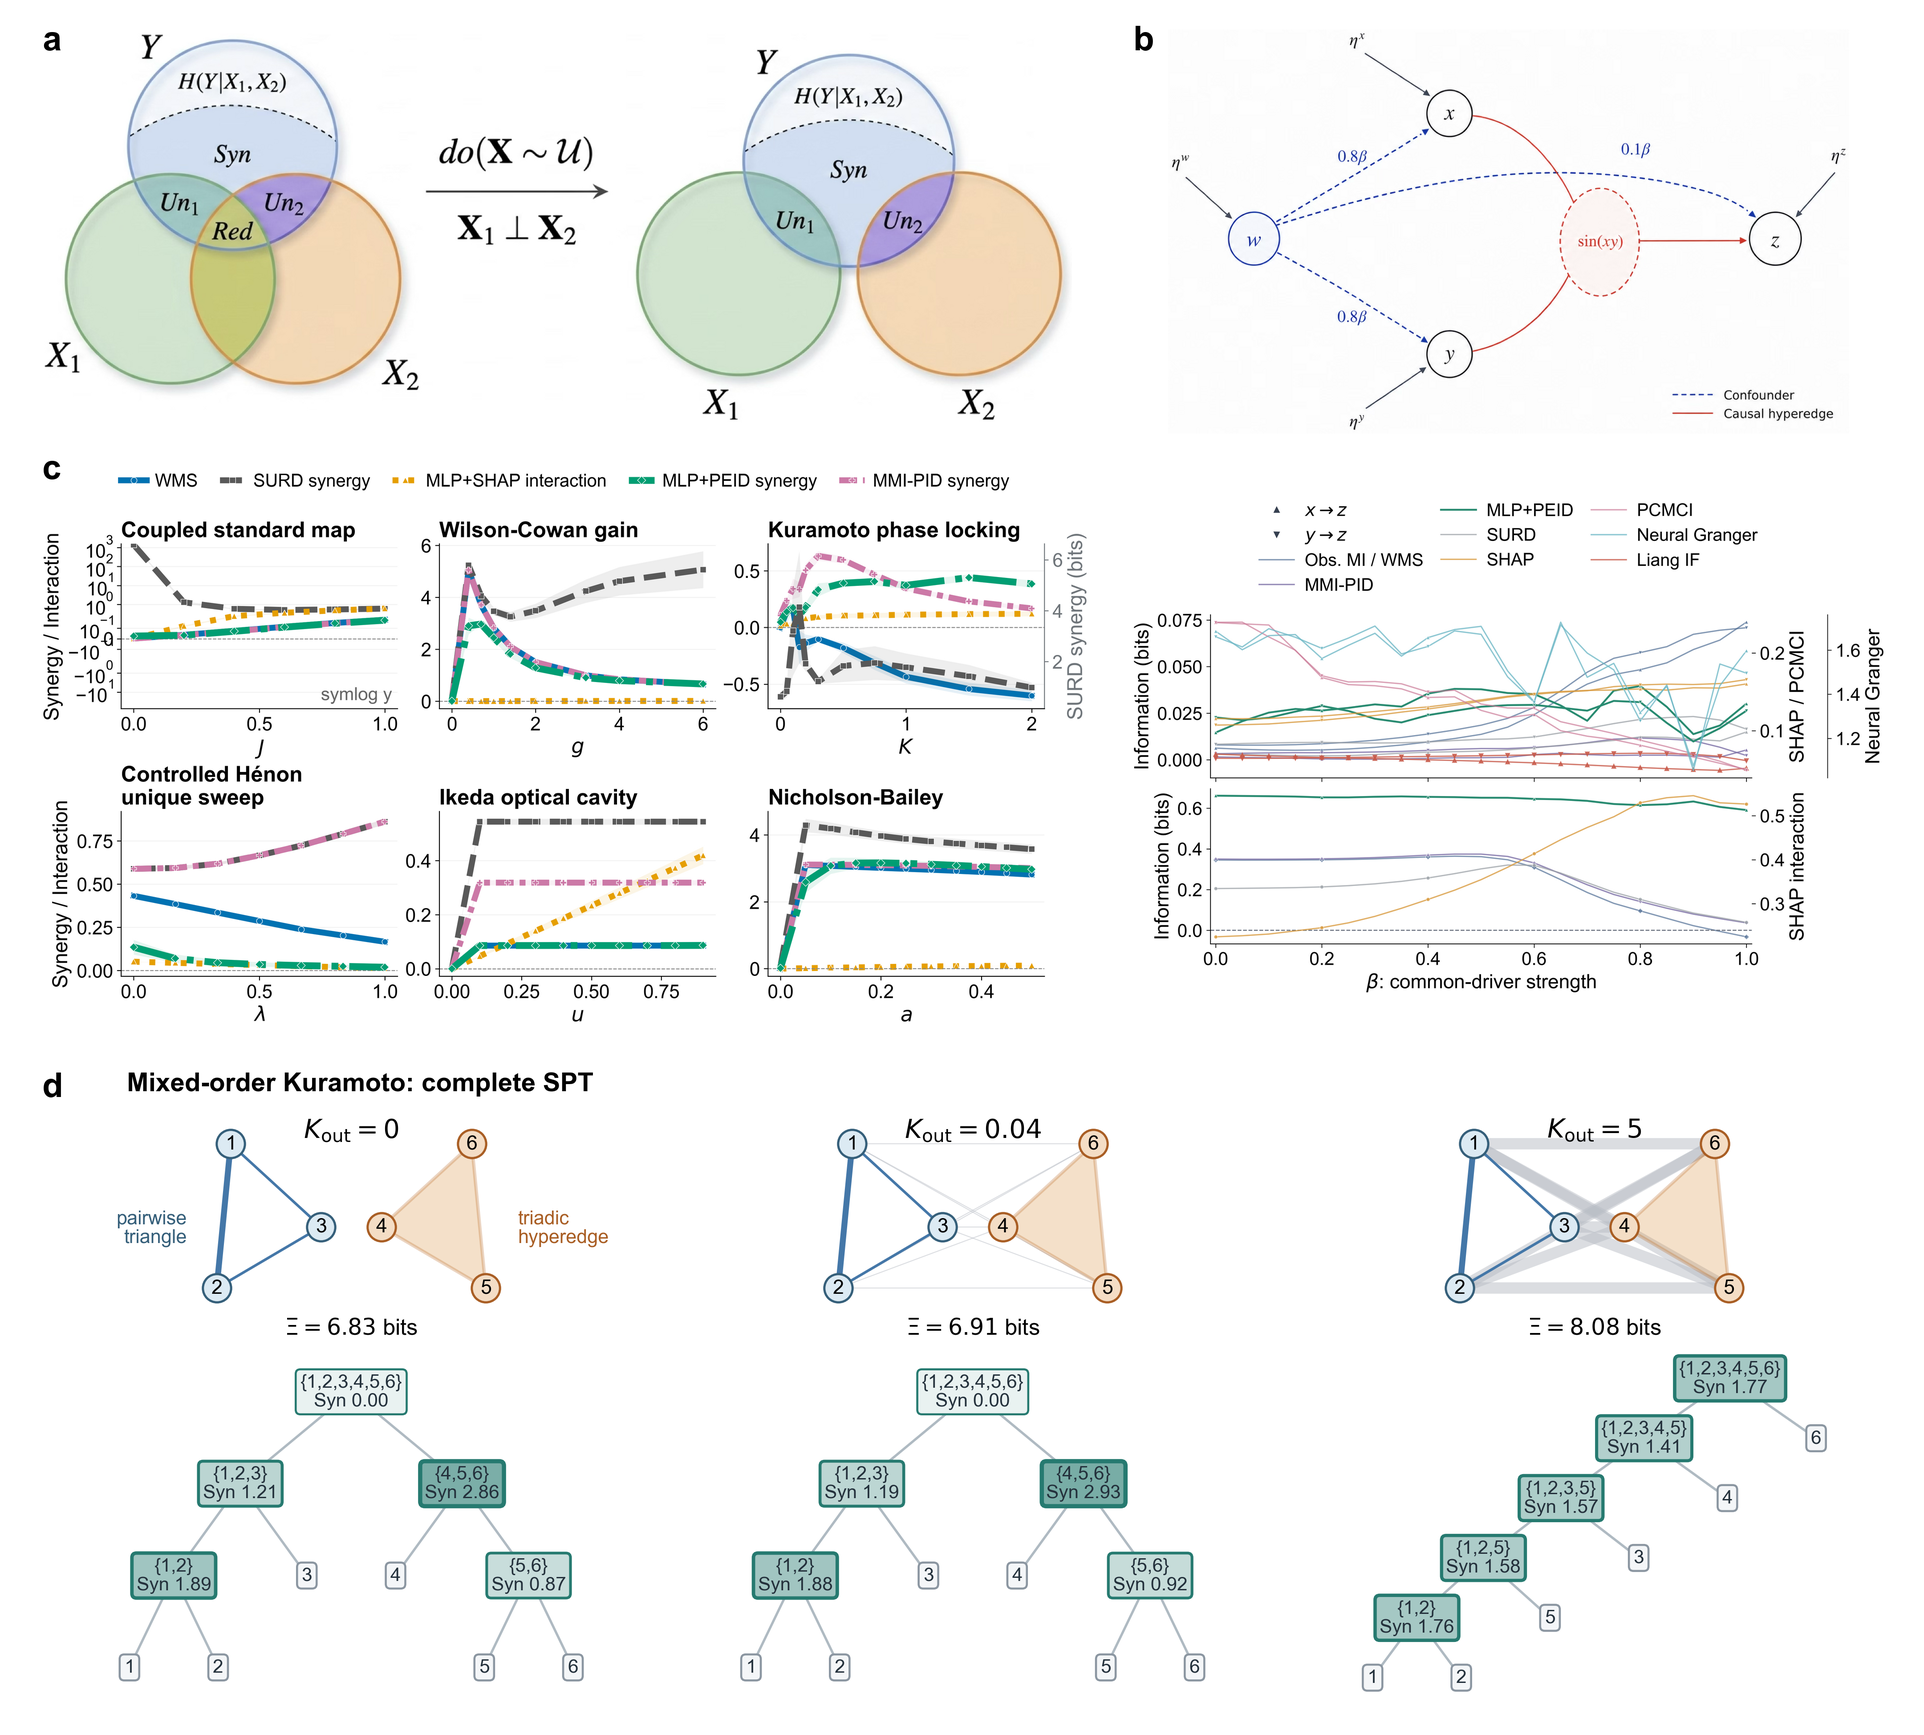
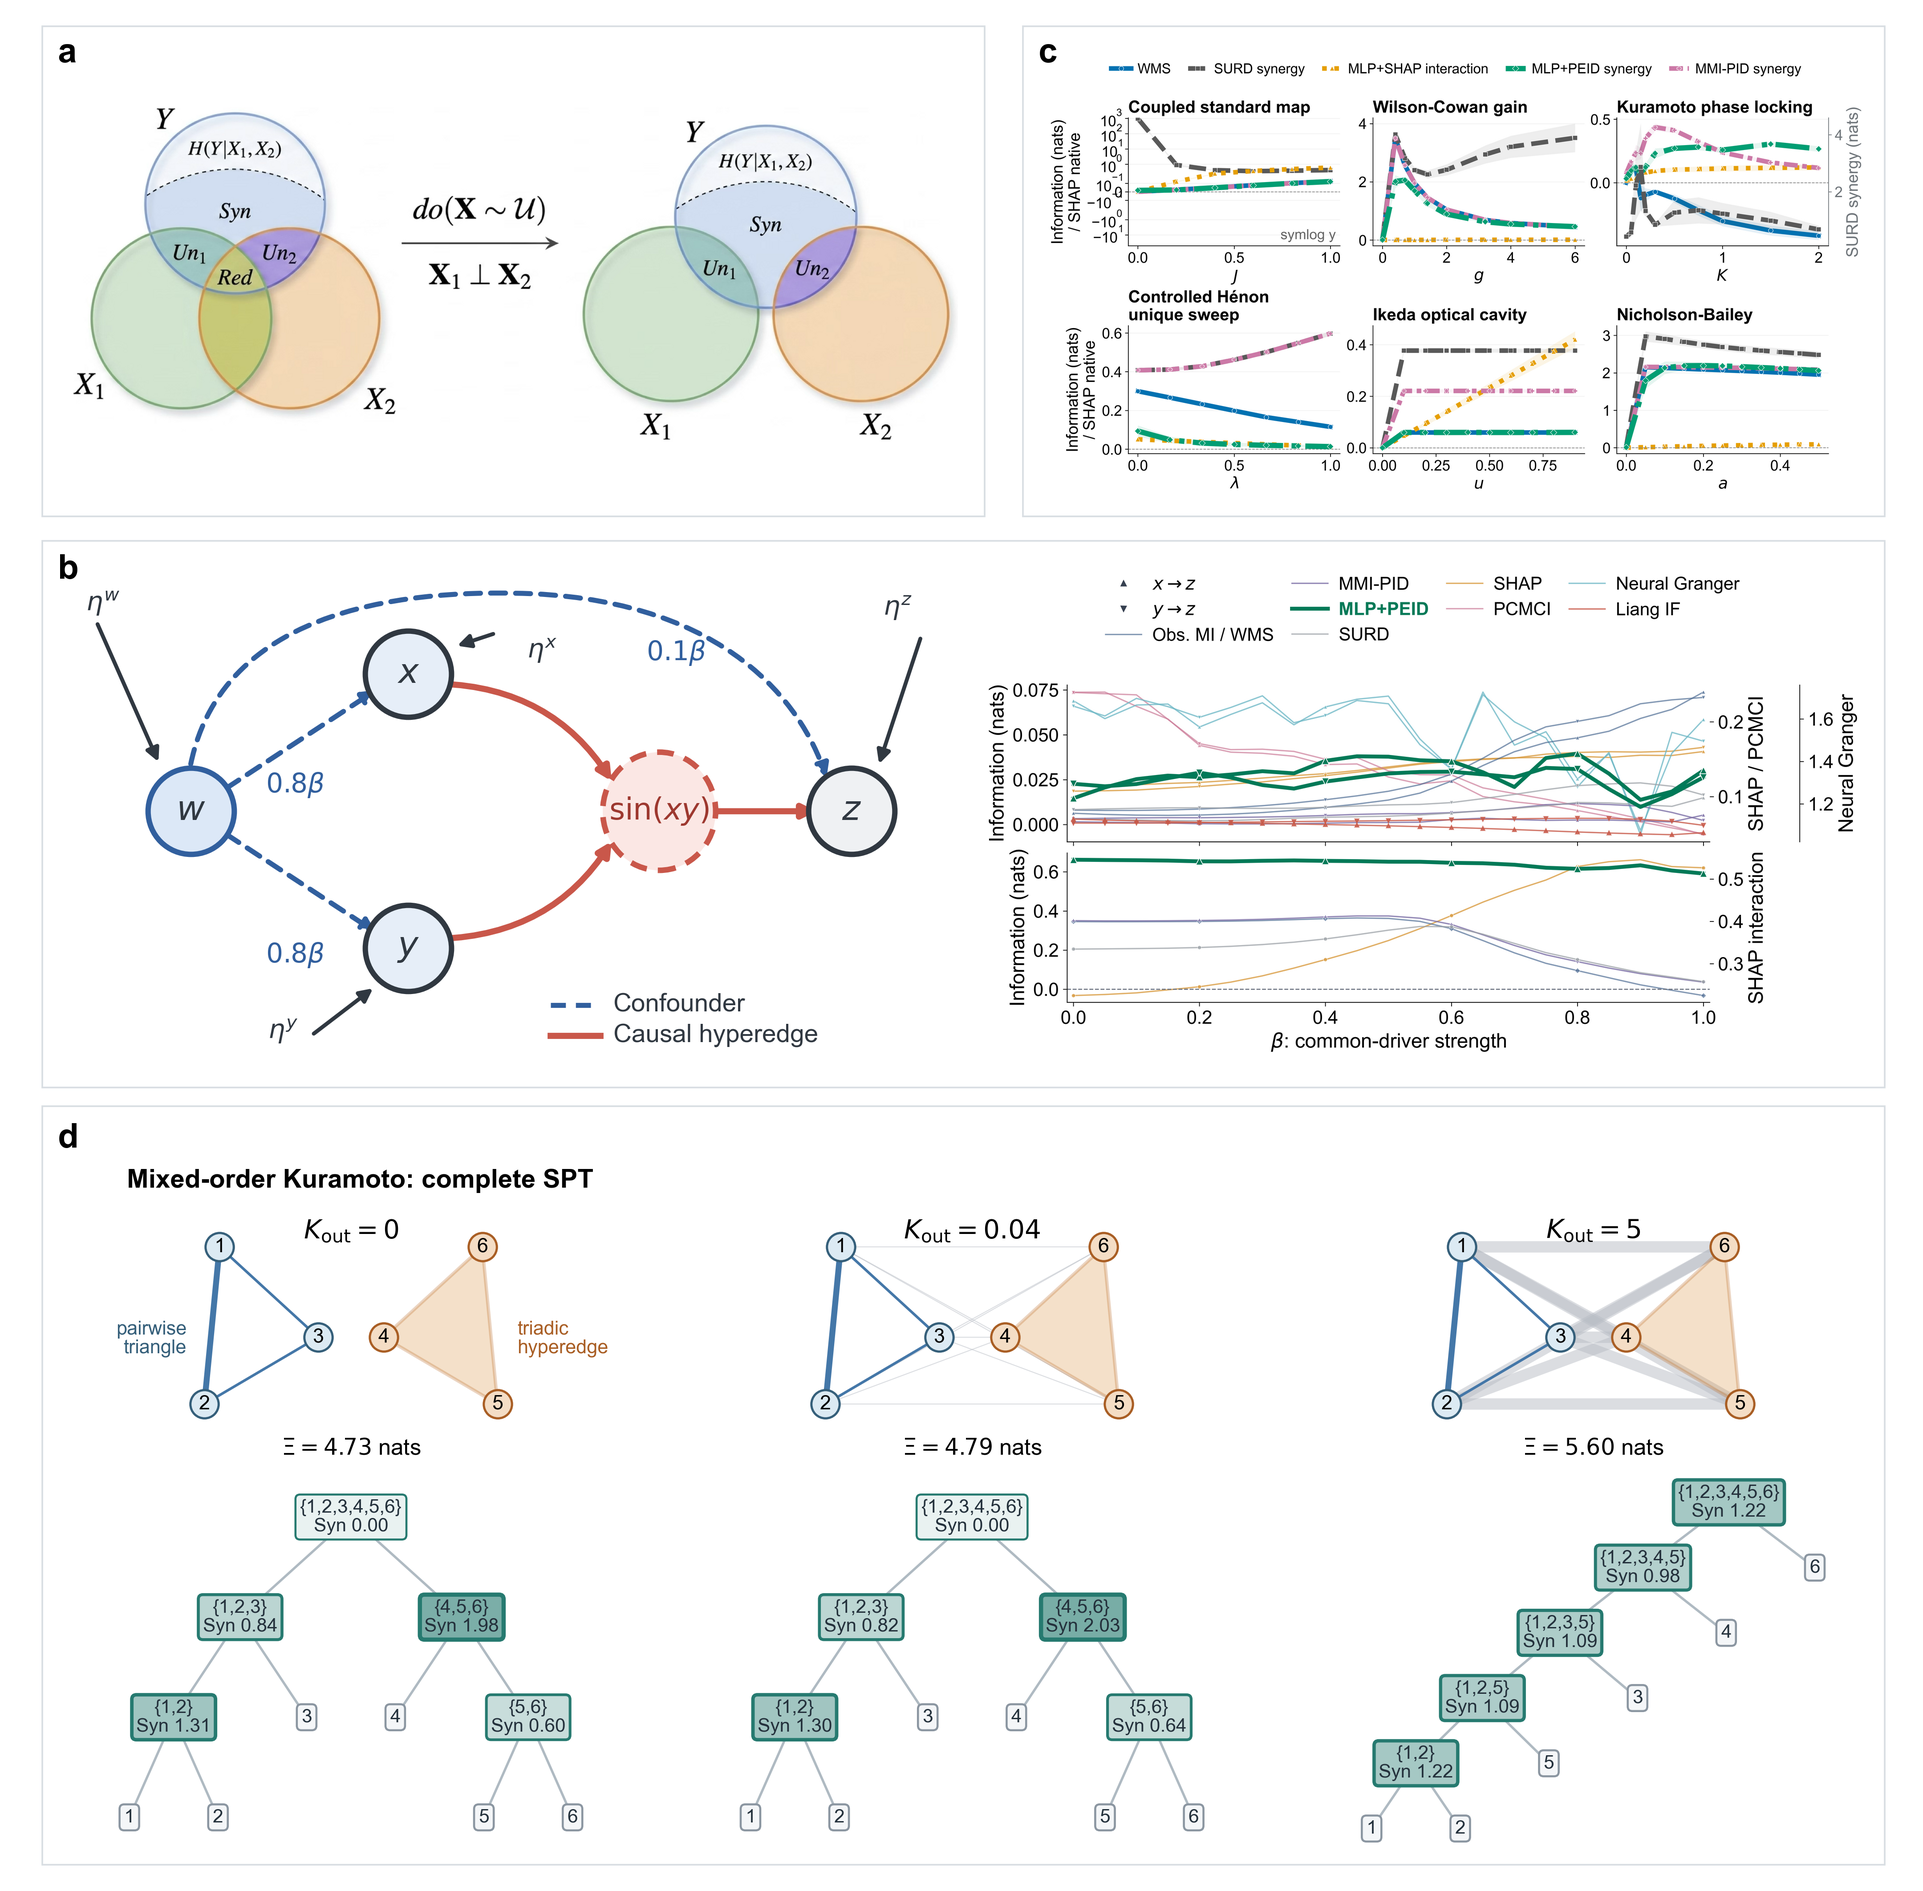
fig: 更新综合层级与动力学主图布局

diff --git a/scripts/compose_part1_figure1.py b/scripts/compose_part1_figure1.py
@@ -9,7 +9,8 @@ from pathlib import Path
 import matplotlib as mpl
 import matplotlib.pyplot as plt
 import numpy as np
-from matplotlib.patches import Polygon
+from matplotlib.path import Path as MplPath
+from matplotlib.patches import Ellipse, FancyArrowPatch, Polygon, Rectangle
 from PIL import Image, ImageChops, ImageDraw
 
 
@@ -18,7 +19,7 @@ if str(ROOT) not in sys.path:
     sys.path.insert(0, str(ROOT))
 FIGURE_DIR = ROOT / "fig" / "part1_synergy_comparison"
 SOURCE_DIR = FIGURE_DIR / "figure1_sources"
-OUTPUT_STEM = FIGURE_DIR / "figure1_integrated_hierarchy_draft"
+OUTPUT_STEM = ROOT / "paper_assets" / "figure1_integrated_hierarchy_spt_clean"
 if os.environ.get("EISYN_NATS_REVIEW_DIR"):
     OUTPUT_STEM = Path(os.environ["EISYN_NATS_REVIEW_DIR"]) / "figure1_integrated_hierarchy_spt_clean"
 NATS_PER_BIT = np.log(2.0)
@@ -33,7 +34,7 @@ CONFOUNDER_BENCHMARK = (
     / "sine_beta_original_neighborhood_one_decimal_all_methods.png"
 )
 SYSTEM_BENCHMARK_LARGE_TEXT = SOURCE_DIR / "six_system_large_text.png"
-CONFOUNDER_BENCHMARK_LARGE_TEXT = SOURCE_DIR / "confounder_large_text.png"
+CONFOUNDER_BENCHMARK_LARGE_TEXT = SOURCE_DIR / "confounder_mlp_peid_focus.png"
 CONFOUNDER_RESULT = (
     ROOT
     / "results"
@@ -144,6 +145,78 @@ def panel_letter(
     fig.text(x, y, letter, fontsize=9.2, fontweight="bold", va="top", ha="left")
 
 
+def panel_border(fig: plt.Figure, bounds: tuple[float, float, float, float]) -> None:
+    fig.add_artist(Rectangle(
+        (bounds[0], bounds[1]), bounds[2], bounds[3],
+        transform=fig.transFigure, fill=False, edgecolor="#D9DEE3", lw=0.45,
+    ))
+
+
+def draw_hyperedge_panel(fig: plt.Figure, bounds: tuple[float, float, float, float]) -> None:
+    """Redraw the existing causal schematic at the size used in the composite."""
+    ax = fig.add_axes(bounds)
+    ax.set(xlim=(0, 1), ylim=(0, 1))
+    ax.axis("off")
+    blue, red, ink = "#315F9E", "#C9574A", "#303841"
+
+    def arrow(start, end, color, *, dashed=False, rad=0, width=1.35, zorder=1):
+        ax.add_patch(FancyArrowPatch(
+            start, end, arrowstyle="-|>", mutation_scale=7.3,
+            connectionstyle=f"arc3,rad={rad}", lw=width, color=color,
+            linestyle=(0, (3, 2)) if dashed else "solid", zorder=zorder,
+        ))
+
+    w, x, y, h, z = (0.12, .50), (.38, .79), (.38, .21), (.68, .50), (.91, .50)
+    # The three dashed paths encode the original common-driver coefficients.
+    arrow((.155, .54), (.349, .765), blue, dashed=True)
+    arrow((.155, .46), (.349, .235), blue, dashed=True)
+    # Route w -> z above x; it must not pass through x or its noise arrow.
+    confounder_path = MplPath(
+        [( .12, .60), (.16, .94), (.39, .97), (.53, .96),
+         (.76, .94), (.85, .73), (.88, .57)],
+        [MplPath.MOVETO] + [MplPath.CURVE4] * 6,
+    )
+    ax.add_patch(FancyArrowPatch(
+        path=confounder_path, arrowstyle="-|>", mutation_scale=7.3,
+        lw=1.35, color=blue, linestyle=(0, (3, 2)), zorder=1,
+    ))
+    ax.text(.245, .54, r"$0.8\beta$", color=blue, fontsize=7.2, ha="center")
+    ax.text(.245, .18, r"$0.8\beta$", color=blue, fontsize=7.2, ha="center")
+    ax.text(.70, .82, r"$0.1\beta$", color=blue, fontsize=7.2, ha="center")
+
+    # The red links retain the joint x,y -> sin(xy) -> z hyperedge semantics.
+    arrow((.410, .77), (.628, .55), red, rad=-.28, width=1.65)
+    arrow((.410, .23), (.628, .45), red, rad=.28, width=1.65)
+    arrow((.742, .50), (.877, .50), red, width=1.65)
+    for start, end in [((.49, .88), (.43, .845)), ((.26, .02), (.345, .135)),
+                       ((.995, .88), (.94, .585)), ((.005, .91), (.085, .59))]:
+        arrow(start, end, ink, width=1.05, zorder=4)
+
+    for point, label, face, edge in [
+        (w, r"$w$", "#DCE8F7", blue),
+        (x, r"$x$", "#E6EEF8", ink),
+        (y, r"$y$", "#E6EEF8", ink),
+        (z, r"$z$", "#EFF1F3", ink),
+    ]:
+        ax.scatter(*point, s=540, marker="o", facecolor=face, edgecolor=edge,
+                   linewidth=1.45, transform=ax.transAxes, zorder=3)
+        ax.text(*point, label, ha="center", va="center", fontsize=9.3,
+                weight="bold", color=ink, transform=ax.transAxes, zorder=4)
+    ax.add_patch(Ellipse(h, .135, .25, transform=ax.transAxes,
+                         facecolor="#FBE7E4", edgecolor=red, lw=1.5,
+                         linestyle=(0, (3, 2)), zorder=3))
+    ax.text(*h, r"$\sin(xy)$", ha="center", va="center", color="#9D382F",
+            fontsize=8.1, weight="bold", transform=ax.transAxes, zorder=4)
+    for px, py, label in [(.54, .84, r"$\eta^x$"), (.23, .035, r"$\eta^y$"),
+                          (.965, .93, r"$\eta^z$"), (.015, .94, r"$\eta^w$")]:
+        ax.text(px, py, label, fontsize=7.1, color=ink, ha="center", va="center",
+                transform=ax.transAxes)
+    ax.plot([.55, .61], [.09, .09], color=blue, lw=1.35, ls=(0, (3, 2)))
+    ax.text(.625, .09, "Confounder", fontsize=6.8, va="center", color=ink)
+    ax.plot([.55, .61], [.025, .025], color=red, lw=1.65)
+    ax.text(.625, .025, "Causal hyperedge", fontsize=6.8, va="center", color=ink)
+
+
 def prepare_large_text_sources() -> None:
     """Re-render cached numerical results with fonts sized for the final panel."""
     from scripts.classic_network_dynamics_benchmark import run_part1_combined_synergy_figure
@@ -168,11 +241,13 @@ def prepare_large_text_sources() -> None:
         stem=CONFOUNDER_BENCHMARK_LARGE_TEXT.stem,
         include_oracle=False,
         font_scale=2.65,
-        figure_size=(9.2, 6.1),
+        figure_size=(10.4, 5.8),
         include_panel_labels=False,
-        legend_columns=3,
+        legend_columns=4,
         compact_text=True,
         reserve_legend_band=True,
+        highlight_mlp_peid=True,
+        png_only=True,
     )
 
 
@@ -255,11 +330,10 @@ def draw_kuramoto_hierarchy_panel(fig: plt.Figure, *, payload: dict) -> None:
 
 
 def build_figure() -> plt.Figure:
-    # Explicit three-band layout: mechanism, benchmark evidence, complete SPTs.
-    fig = plt.figure(figsize=(183 / 25.4, 165 / 25.4), facecolor="white")
+    # The common-driver schematic and its beta sweep share panel b.
+    fig = plt.figure(figsize=(183 / 25.4, 180 / 25.4), facecolor="white")
 
     intervention = trim_white(load_rgb(INTERVENTION_DIAGRAM), tolerance=10, pad=4)
-    hyperedge = trim_white(load_rgb(HYPEREDGE_DIAGRAM), tolerance=10, pad=8)
     systems = trim_white(load_rgb(SYSTEM_BENCHMARK_LARGE_TEXT), tolerance=8, pad=4)
 
     # Retain both original panels: pairwise readouts above and interaction /
@@ -268,16 +342,20 @@ def build_figure() -> plt.Figure:
     hierarchy_sweep = json.loads(
         KURAMOTO_HIERARCHY_RESULT.read_text(encoding="utf-8")
     )
-    panel_letter(fig, x=0.022, y=0.985, letter="a")
-    panel_letter(fig, x=0.589, y=0.985, letter="b")
-    image_panel(fig, (0.022, 0.752, 0.535, 0.233), intervention)
-    image_panel(fig, (0.589, 0.750, 0.390, 0.233), hyperedge)
+    for bounds in ((.022, .727, .490, .259), (.532, .727, .448, .259),
+                   (.022, .425, .958, .289), (.022, .014, .958, .401)):
+        panel_border(fig, bounds)
+    panel_letter(fig, x=.030, y=.980, letter="a")
+    image_panel(fig, (.037, .744, .461, .222), intervention)
 
-    panel_letter(fig, x=0.022, y=0.738, letter="c")
-    image_panel(fig, (0.022, 0.409, 0.543, 0.320), systems)
-    image_panel(fig, (0.589, 0.409, 0.390, 0.320), confounder)
+    panel_letter(fig, x=.030, y=.707, letter="b")
+    draw_hyperedge_panel(fig, (.047, .446, .435, .250))
+    image_panel(fig, (.514, .436, .452, .267), confounder)
 
-    panel_letter(fig, x=0.022, y=0.382, letter="d")
+    panel_letter(fig, x=.540, y=.980, letter="c")
+    image_panel(fig, (.546, .741, .422, .226), systems)
+
+    panel_letter(fig, x=.030, y=.406, letter="d")
     draw_kuramoto_hierarchy_panel(fig, payload=hierarchy_sweep)
 
     return fig

diff --git a/scripts/plot_dmf_schaefer100_summary.py b/scripts/plot_dmf_schaefer100_summary.py
@@ -586,13 +586,13 @@ def plot_summary(args: argparse.Namespace) -> None:
         np.testing.assert_allclose(tree.xi_bits, yeo["fine_phi"][si, gi], atol=1e-8, rtol=0)
         print(json.dumps({"seed": int(hierarchy["seed"]), "G": float(hierarchy["coupling_g"]), **audit}), flush=True)
 
-    figure = plt.figure(figsize=(16.0, 11.4))
+    figure = plt.figure(figsize=(16.0, 10.0))
     outer = GridSpec(
-        2, 1, figure=figure, height_ratios=(5.3, 3.7),
-        hspace=0.35, left=0.065, right=0.985, top=0.89, bottom=0.07,
+        2, 1, figure=figure, height_ratios=(5.1, 3.9),
+        hspace=0.22, left=0.065, right=0.985, top=0.92, bottom=0.07,
     )
     top = GridSpecFromSubplotSpec(
-        1, 3, subplot_spec=outer[0], width_ratios=(4.4, 1.35, 9.25),
+        1, 3, subplot_spec=outer[0], width_ratios=(4.4, 0.60, 10.0),
         wspace=0,
     )
     panel_a_grid = GridSpecFromSubplotSpec(
@@ -602,7 +602,7 @@ def plot_summary(args: argparse.Namespace) -> None:
     ax_a_wms = figure.add_subplot(panel_a_grid[1], sharex=ax_a)
     ax_tree = figure.add_subplot(top[2])
     bottom = GridSpecFromSubplotSpec(
-        1, 5, subplot_spec=outer[1], width_ratios=(4.4, 1.1, 4.4, 0.8, 4.3),
+        1, 5, subplot_spec=outer[1], width_ratios=(4.6, 0.55, 4.6, 0.50, 4.75),
         wspace=0,
     )
     ax_e = figure.add_subplot(bottom[0])
